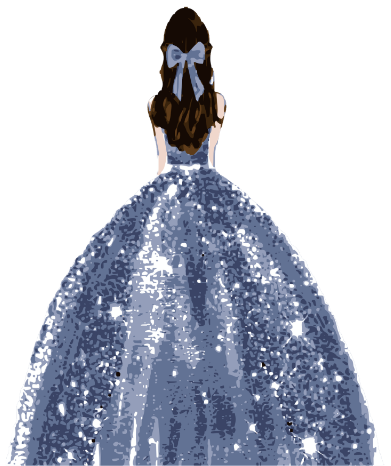
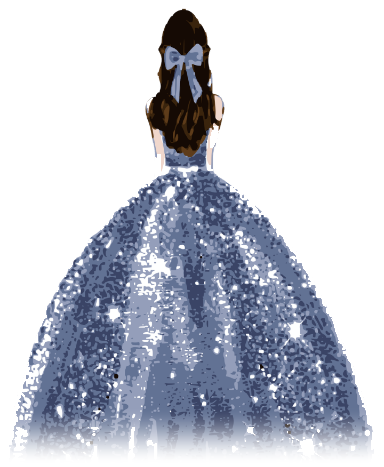
fix: afastar imagem da personagem do botao e remover borda branca/fringe e corte inferior da imagem

Changed region(s): [[0.0, 0.0, 0.9688, 1.0], [0.5, 0.03, 0.5312, 0.0601]]

diff --git a/src/routes/index.tsx b/src/routes/index.tsx
@@ -732,7 +732,7 @@ function FloatingCharacter({ mouse }: { mouse: { x: number; y: number } }) {
 
   return (
     <div
-      className="relative z-10 mt-6 flex w-full flex-col items-center justify-end overflow-hidden"
+      className="relative z-10 mt-14 flex w-full flex-col items-center justify-end overflow-hidden sm:mt-20 md:mt-24"
       style={{
         transform: `translate3d(${mouse.x * 24}px, ${mouse.y * 14}px, 0)`,
       }}
@@ -772,15 +772,15 @@ function FloatingCharacter({ mouse }: { mouse: { x: number; y: number } }) {
           <img
             src={CHARACTER_IMAGE_SRC}
             alt="Personagem Gabriela"
-            className="relative z-10 max-h-[38svh] w-auto max-w-[min(90vw,26rem)] object-contain object-bottom sm:max-h-[48svh]"
+            className="relative z-10 max-h-[36svh] w-auto max-w-[min(88vw,24rem)] object-contain object-bottom sm:max-h-[46svh]"
             style={{
               filter:
-                "drop-shadow(0 0 14px rgba(96, 145, 255, 0.45)) drop-shadow(0 0 28px rgba(245, 212, 130, 0.35))",
+                "drop-shadow(0 0 18px rgba(96, 145, 255, 0.35)) drop-shadow(0 0 36px rgba(245, 212, 130, 0.22))",
             }}
             onError={() => setImageLoaded(false)}
           />
 
-          {/* Gradiente de fusão perfeito na base para garantir que a parte de baixo nunca seja visível */}
+          {/* Gradiente de fusão perfeito na base para garantir acabamento estelar sem corte */}
           <div
             className="pointer-events-none absolute inset-x-0 bottom-0 z-20 h-16 bg-gradient-to-t from-space-black via-space-black/90 to-transparent sm:h-24"
             aria-hidden
